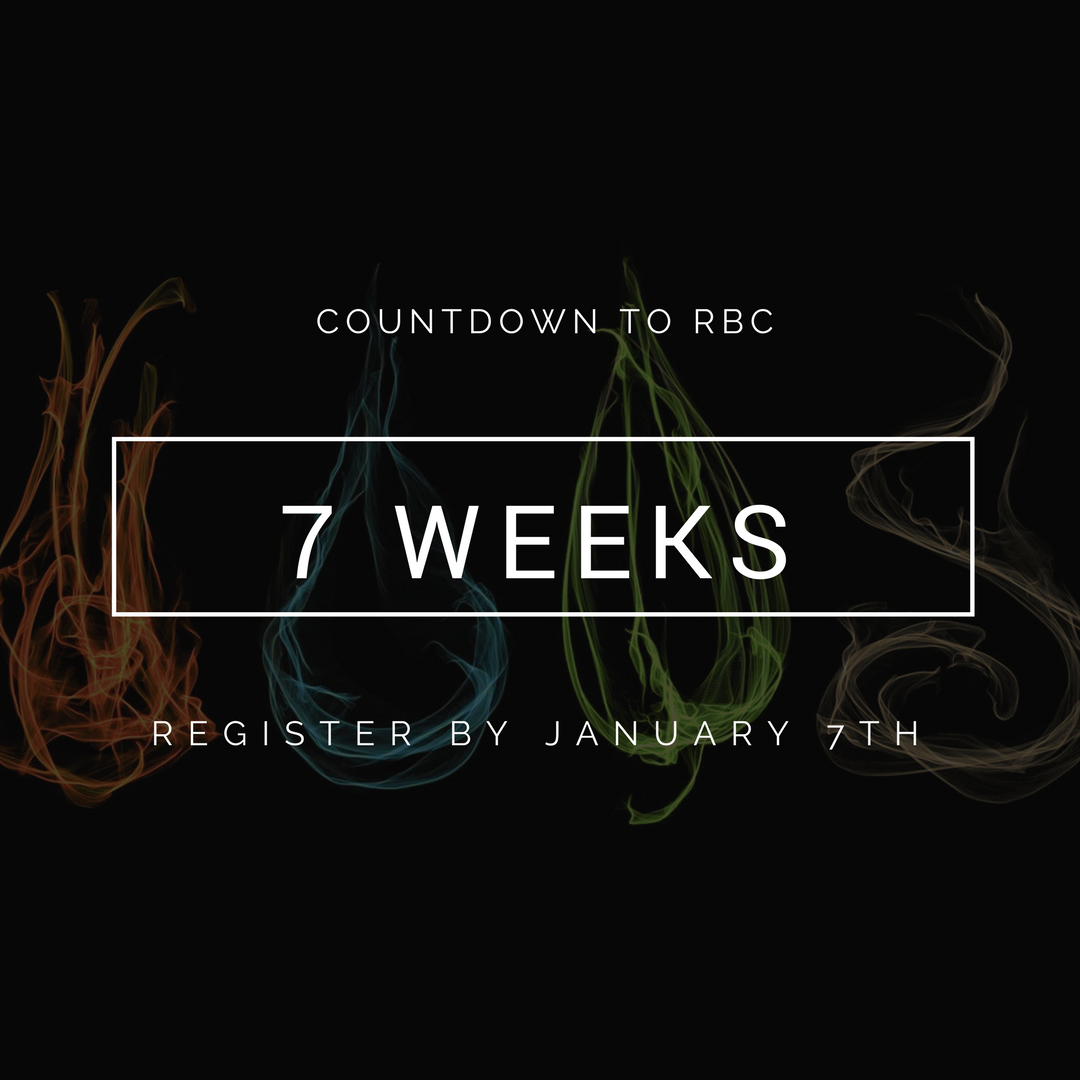
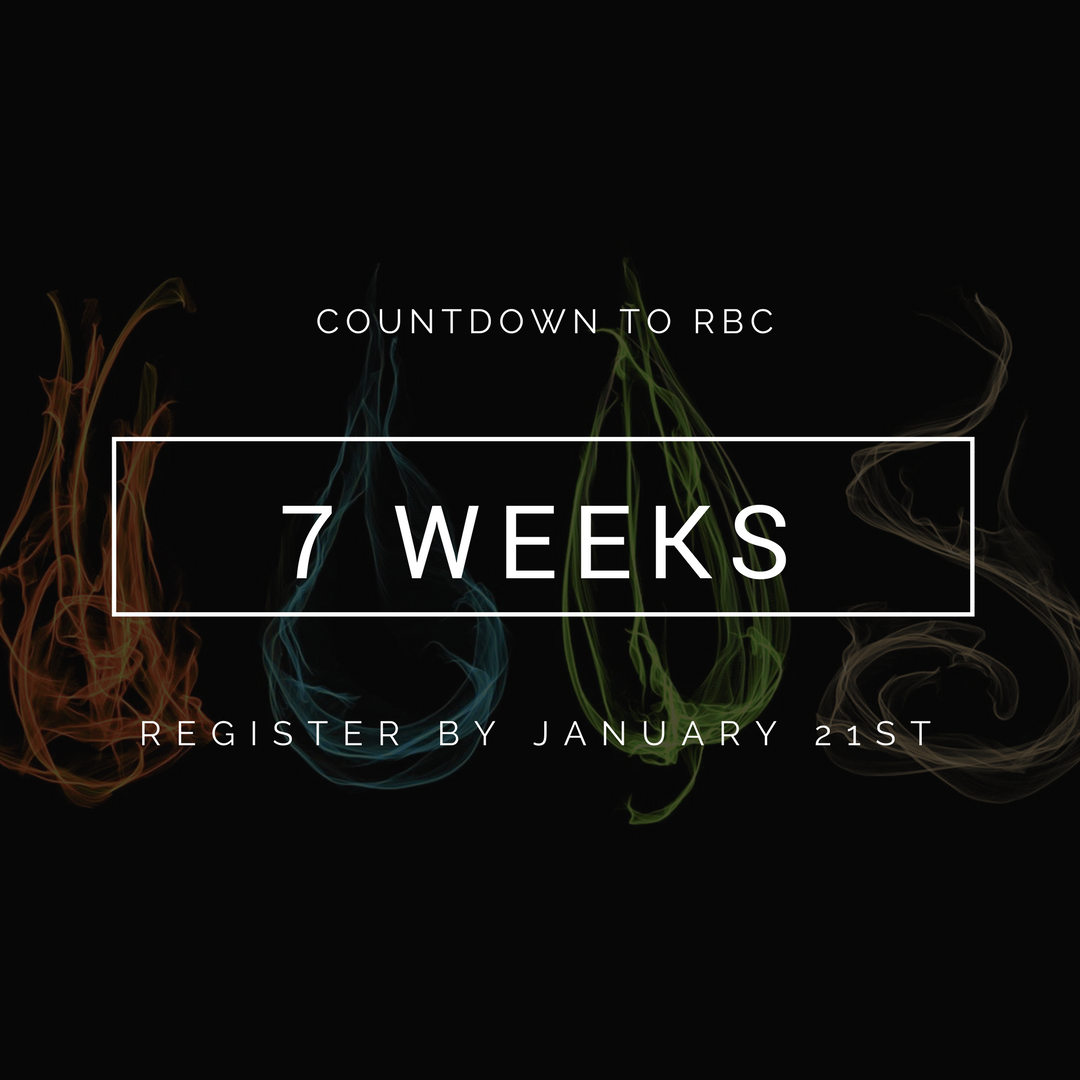
Time update plus IE

Changed region(s): [[0.1222, 0.6722, 0.4583, 0.7028], [0.4889, 0.6722, 0.7333, 0.7028], [0.7639, 0.6417, 0.8556, 0.7028]]

diff --git a/edge.html b/edge.html
@@ -1,0 +1,204 @@
+<!DOCTYPE html>
+<html>
+<head>
+	<title>PACUHR Supplemental Information</title>
+    <meta name="viewport" content="width=device-width" />
+    <!-- <link rel="icon" href="assets/img/favicon.ico"> -->
+    <link rel="shortcut icon" href="assets/img/favicon.png">
+
+    <!-- Stylesheets -->
+    <link href="assets/css/edge.css" rel="stylesheet">
+
+    <!-- Javascript -->
+    <script src="assets/js/jquery.min.js"></script>
+    <script src="assets/js/home.js"></script>
+
+
+    <!-- Fonts -->
+    <link href="https://fonts.googleapis.com/css?family=Lato:100, 200, 900" rel="stylesheet">
+    <link href="https://fonts.googleapis.com/css?family=Raleway|Roboto" rel="stylesheet">
+
+</head>
+<body>
+    <ul class="bio">
+        <a href="https://docs.google.com/document/d/e/2PACX-1vSMacULzJYSLMDfahwREuNmeAaR0OvWdM_uRp3bm-0_JDOF8NCqISKkfhKWXQlqBfiX9eBxeXMNptDs/pub?embedded=true" target="_blank"><li>Schedule</li></a>
+        <a href="https://docs.google.com/document/d/e/2PACX-1vTTs-bgmTuRv4H5wRHMs9PwfrejdE5vWjIoze6khQS8_9LyklnoTBfvmQczuU2EGOpxbchSTqVartva/pub?embedded=true" target="_blank"><li>Facilities</li></a>
+        <a href="https://docs.google.com/document/d/e/2PACX-1vShWX57ZOexEgTiD9x5EBEfz-5UGHoRq4tjNPMN0aP-avwXyD8g-t5YUnow2QDuvvxntoDesjxnkl9y/pub?embedded=true" target="_blank"><li>Philanthropy</li></a>
+        <a href="https://docs.google.com/document/d/e/2PACX-1vRNpflVgT7hRisHWzy3xjH-_QPZfJxgWUvwJ2RPPj9xoupFU9eglI5AaSdOIAxvU71GHhQ2PwxQmbC9/pub?embedded=true" target="_blank"><li>Boardroom</li></a>
+        <a href="https://docs.google.com/document/d/e/2PACX-1vQ3wpvf5CA1RFcTwgLR6kV_dpAYIvOB7zcffBp_ZI3Jy1-7ESFKWVpiiyaVnPHqsasPYmVmmPzXEVNA/pub?embedded=true" target="_blank"><li>Dining</li></a>
+        <a href="https://docs.google.com/document/d/e/2PACX-1vSeQNxVIhKRXkkq_laERnknpzzYmWFVCHaItcblNq2FaRng0i58fsBnya3-ByDKwyPgcWvApYgQrJ1m/pub?embedded=true" target="_blank"><li>Safety</li></a>
+        <a href="https://docs.google.com/document/d/e/2PACX-1vSp5R_JrV3CO1bLzzhDuFOmWo39ZVJdqaNupRMb9wWT4-gn0tQQC5y33AJevqqwpUlkM_jPolHkQPNS/pub?embedded=true" target="_blank"><li>Transportation</li></a>
+        <a href="https://docs.google.com/document/d/e/2PACX-1vTNjokR3y8SRMnol2DCQ_gLLuodWRSM3hlm1BqhgLPfuWVRo0wqWo0C-dDAID_6RIWcDf4KZJtPt-pc/pub?embedded=true" target="_blank"><li>Housing</li></a>
+    </ul>
+    
+    
+
+    <div class="bio" id="Chelsea">
+        <img src="assets/img/team/Chelsea.jpg">
+        <div id="info">
+            <div id="name"><b>Name: </b> Chelsea Ji</div>
+            <br>
+            <div id="pronouns"><b>Pronouns: </b> She/Her</div>
+            <br>
+            <div id="position"><b>Position: </b> Conference Co-Chair</div>
+            <br>
+        </div>
+        <div id="bio">Hello! My name is Chelsea and I'm excited to serve as co-chair for the Regional Business Conference! I'm a third year studying Integrative Biology. I also serve as a Resident Assistant and Vice President of Recognitions for the Golden Bear Chapter of NRHH. My passion and involvement with PACURH began when I attended conferences as a NCC. I’ve always loved representing my school in boardroom and hearing about all the great things happening in residential communities across PACURH. Now I’m excited to bring the Regional Business Conference to Berkeley and show PACURH what Cal is all about. Our conference team has worked tirelessly to deliver a truly unique experience for you and I’m sure that it won’t disappoint! As always, go bears!</div>
+    </div>
+    <div class="bio" id="CJ">
+        <img src="assets/img/team/CJ.jpg">
+        <div id="info">
+            <div id="name"><b>Name: </b> CJ Connolly</div>
+            <br>
+            <div id="pronouns"><b>Pronouns: </b> She/Her</div>
+            <br>
+            <div id="position"><b>Position: </b> Conference Co-Chair</div>
+            <br>
+        </div>
+        <div id="bio">Hey PACURH! I’m CJ and I am one of the Co-Conference Chairs for RBC 2018! I am a fourth year studying Psychology with plans of pursuing law school next fall. I also serve as the President of the Golden Bear Chapter for NRHH and as a Community and Leadership Assistant overseeing the Unit 3 Hall Association. I am extremely passionate about children and someday hope to make education more accessible and of higher quality around the world. Some of my other favorite things include boba, butterflies, playing Catan, watching Netflix and baking yummy desserts with my Co-Conference Chair Chelsea! We are all so excited for you all to spend some time with us in Berkeley this February. Please do not hesitate to reach out to us with any questions! Froggie Love!</div>
+    </div>
+    <div class="bio" id="Desirée">
+        <img src="assets/img/team/Desiree.jpg">
+        <div id="info">
+            <div id="name"><b>Name: </b> Desirée Nayak</div>
+            <br>
+            <div id="pronouns"><b>Pronouns: </b> She/Her</div>
+            <br>
+            <div id="position"><b>Position: </b> Registration Chair</div>
+            <br>
+        </div>
+        <div id="bio">Hey everyone, my name is Desirée Nayak and I am the Registration Chair for the PACURH Regional Business Conference, 2018. I am a sophomore at UC Berkeley, intending to pursue a degree in Cognitive Science. I am from Mumbai, India and lived there pretty much all my life, till I moved here for college. I love to travel and am also a certified scuba diver. When I am not overthinking everything and/ or contemplating life, you will usually find me watching law dramas or psychological thrillers. I am part of the Peer Review Board which is an organisation that deals with policy violations in the residence halls. I am also doing some interesting psychological research at our law school. I look forward to seeing and interacting with all of you (both virtually, through the (rather lengthy) registration form, and also in person, of course). I am very excited for the conference and really looking forward to February! </div>
+    </div>
+    <div class="bio" id="Danny">
+        <img src="assets/img/team/Danny.jpg">
+        <div id="info">
+            <div id="name"><b>Name: </b> Danny Chu</div>
+            <br>
+            <div id="pronouns"><b>Pronouns: </b> He/Him</div>
+            <br>
+            <div id="position"><b>Position: </b> Technology & Media Chair</div>
+            <br>
+        </div>
+        <div id="bio">Hi y'all! You can call me Danny Or "you there" or "heyya handsome!" what every bloats your boat. I am an Electrical Engineering and Computer Science Major, with an intended double in Cognitive Sciences and minoring in Data Science. If you like data structures, come enroll in Berkeley and take the class with me! I love a good meme or pun, so hit me up! We'll see where our adventure takes us, and look back on all the great meme-ories! </div>
+    </div>
+    <div class="bio" id="Rachel">
+        <img src="assets/img/team/Rachel.jpg">
+        <div id="info">
+            <div id="name"><b>Name: </b> Rachel Lin</div>
+            <br>
+            <div id="pronouns"><b>Pronouns: </b> She/Her</div>
+            <br>
+            <div id="position"><b>Position: </b> Housing Chair</div>
+            <br>
+        </div>
+        <div id="bio">Hey y’all! My name is Rachel Lin and I am the Housing Chair for RBC! I am a second-year student intending to double major in Business Administration and Cognitive Science. I’m an out of state student from the great state of Maryland, like twenty minutes outside Baltimore and an hour from Washington D.C. On campus, I’m involved in the student government, National Residence Hall Honorary, and Space Enterprise! In my free time, I love watching the TV show Survivor, petting cats, and drinking boba. Last year, I was RHA Rep for my residence hall, where I had the opportunity to attend RLC at USC, RBC at UoP, and NACURH at Purdue University. Can’t wait to see you all in February!!</div>
+    </div>
+    <div class="bio" id="Billy">
+        <img src="assets/img/team/Billy.jpg">
+        <div id="info">
+            <div id="name"><b>Name: </b> Billy Allocca</div>
+            <br>
+            <div id="pronouns"><b>Pronouns: </b> He/Him</div>
+            <br>
+            <div id="position"><b>Position: </b> Facilities & Logistics Chair</div>
+            <br>
+        </div>
+        <div id="bio">Hey there!! I’m Billy Allocca, a sophomore at Cal, a Resident Assistant, avid dog lover, and Facilities and Logistics chair. I’m planning on majoring in Business Administration. My hometown is Seattle, Washington and some of my hobbies include hiking, exploring, adventures, binge-watching Parks and Recreation, and running. I’ve been involved with Residential Life ever since Hall Association as a freshman, through PACURH 2016, and now as an RA and chair for RBC! I’m so excited to share this amazing school with all of you at this conference - see you in February!</div>
+    </div>
+    <div class="bio" id="Jeet">
+        <img src="assets/img/team/Jeet.jpg">
+        <div id="info">
+            <div id="name"><b>Name: </b> Jeet Rai</div>
+            <br>
+            <div id="pronouns"><b>Pronouns: </b> She/Her</div>
+            <br>
+            <div id="position"><b>Position: </b> Transportation & Safety Chair</div>
+            <br>
+        </div>
+        <div id="bio">Hi! My name is Jeet Rai and I am the Transportation and Safety Chair for the Regional Business Conference. I am a second year at Cal and have declared a Political Science major with an intended Journalism minor. When I am not writing emails and attending meetings, I enjoy spontaneous adventures to Oregon, Nevada, the Berkeley Hills and San Francisco to stargaze and hike. I love learning new languages, pouring over different publications and jamming to music in my free time. On campus, I am the Director of Advocacy for the United Nations Association of Berkeley, a Distribution Analyst at The Daily Californian and the Student Supervisor at Unit 3 Residence Halls. As a freshman, I had the honor of serving as president of Hall Association. I love meeting new people and look forward to seeing you soon! </div>
+    </div>
+    <div class="bio" id="Elyse">
+        <img src="assets/img/team/Elyse.jpg">
+        <div id="info">
+            <div id="name"><b>Name: </b> Elyse O'Neill</div>
+            <br>
+            <div id="pronouns"><b>Pronouns: </b> She/Her</div>
+            <br>
+            <div id="position"><b>Position: </b> Volunteer Chair</div>
+            <br>
+        </div>
+        <div id="bio">Hello! My name is Elyse O’Neil and I am the Volunteer Chair for RBC. I am a senior at Cal majoring in Peace and Conflict Studies and minoring in Public Policy. When I’m not stressing out about classes, I enjoy being an active member of res life. I have served as an executive in the Residence Hall Assembly, and am currently a Community and Leadership Advisor and an active member of NRHH. I also enjoy reading, listening to podcasts, binging shows on Netflix, and spending time with friends. I am very excited for everyone to come to Berkeley for RBC. I know that you will all have an awesome time. Remember to be nice to the volunteers, and do not be afraid to ask them for help or food recommendations (there are so many awesome places to explore in this city!) </div>
+    </div>
+    <div class="bio" id="Alma">
+        <img src="assets/img/team/Alma.jpg">
+        <div id="info">
+            <div id="name"><b>Name: </b> Alma Avila</div>
+            <br>
+            <div id="pronouns"><b>Pronouns: </b> She/Her</div>
+            <br>
+            <div id="position"><b>Position: </b> Hospitality & Sustainability Chair</div>
+            <br>
+        </div>
+        <div id="bio">Hiiiii! My name is Alma Avila, I am the Hospitality and Sustainability Chair for the Regional Business Conference. I am a proud Latina from Southern California, and enjoy playing soccer. I am a sophomore, intended Business Administration and Media Studies. I think Res life is the Best life! As a freshman, I was a representative at Residence Hall Assembly which encouraged me to become part of NRHH. I am glad to be helping organize this conference for you all, and am excited that y’all be coming to UC Berkeley. Outside of academics I am involved in Greek life, Latino Business Student Association, Hermanas Unidas, and the Event Planning Association. Don’t hesitate to reach out! SC: @almaa120612</div>
+    </div>
+    <div class="bio" id="Sandra">
+        <img src="assets/img/team/Sandra.jpg">
+        <div id="info">
+            <div id="name"><b>Name: </b> Sandra Walle</div>
+            <br>
+            <div id="pronouns"><b>Pronouns: </b> She/Her</div>
+            <br>
+            <div id="position"><b>Position: </b> Finance Chair</div>
+            <br>
+        </div>
+        <div id="bio">Hi everyone! My name is Sandra Walle and I am the Finance Chair for the Regional Business Conference. I am very passionate about Res Life and grateful that I have the opportunity to work with so many amazing peers to help make Cal a place students can call home. In the Res Halls I work as a Resident Assistant and also serve as the VP of Finance and Communications for the National Residence Hall Honorary (NRHH) Golden Bear Chapter. I am a third year student majoring in Public Health with a double minor in Spanish Literature and Public Policy. On campus I am involved with the Undergraduate Public Health Coalition, work as a Research Assistant in a Psychology lab and volunteer as a  Health Advocate through the Alameda Health System. In my free time I enjoy playing board games, tennis, grabbing coffee with friends, and exploring the bay area in search of cute and tasty brunch spots.  I am so excited to be a part of the conference planning team and can't wait to see you all in February! </div>
+    </div>
+    <div class="bio" id="Amberlyn">
+        <img src="assets/img/team/Amberlyn.jpg">
+        <div id="info">
+            <div id="name"><b>Name: </b> Amberlyn Saw</div>
+            <br>
+            <div id="pronouns"><b>Pronouns: </b> She/Her</div>
+            <br>
+            <div id="position"><b>Position: </b> Philanthropy & Sponsorship Chair</div>
+            <br>
+        </div>
+        <div id="bio">Hi everyone! My name is Amberlyn Saw and I am the Philanthropy and Sponsorships Chair. I’m a 3rd year double majoring in Business Administration and Molecular Environmental Biology with a concentration in Environment and Human Health. I’m a second-year RA in Unit 3, the place to be! In my free time, I love road tripping to national parks and spending time outdoors camping, backpacking, and running. If I’m not in my room napping, there’s a good chance I’m searching for the best chai latte in Berkeley, baking brownies in the kitchen, or procrastinating on homework by hiking in the Bay Area. On campus, I’m a mentor for Boost @Haas, a director for the ASUC Office of the CTO, and a member of National Residence Hall Honorary. I am beyond thrilled to be a part of this conference and I can’t wait to meet all of you in February!</div>
+    </div>
+    <div class="bio" id="Jeah">
+        <img src="assets/img/team/Jeah.jpg">
+        <div id="info">
+            <div id="name"><b>Name: </b> Jeah Clemente</div>
+            <br>
+            <div id="pronouns"><b>Pronouns: </b> She/Her</div>
+            <br>
+            <div id="position"><b>Position: </b> Dining & Banquet Chair</div>
+            <br>
+        </div>
+        <div id="bio">Hi! My name is Jeah Clemente and I am the Dining and Banquet Chair for this year’s RBC conference. I am a senior studying Integrative Biology and Global Public Health, and I intend to pursue medical school or a career in the health field in the near future. Throughout my time at Berkeley, I have been involved with Bears that Care, a peer education program promoting violence prevention and bystander intervention, the residence halls as an RA, and have done bio-physics and cognitive psychology research with a few professors. When I’m not busy with school and my extracurricular activities, I like to spend time with friends, explore the Bay Area, and try out yummy restaurants all around Berkeley. I’ve had a really great time working with everyone to plan this conference, and I look forward to meeting all of you!</div>
+    </div>
+    <div class="bio" id="Alex">
+        <img src="assets/img/team/Alex.jpg">
+        <div id="info">
+            <div id="name"><b>Name: </b> Alex Brown</div>
+            <br>
+            <div id="pronouns"><b>Pronouns: </b> She/Her</div>
+            <br>
+            <div id="position"><b>Position: </b> Advisor</div>
+            <br>
+        </div>
+        <div id="bio">Hey PACURH! My name is Alex Brown, and I’m one of the Co-Advisors for RBC 2018! I’m originally from Virginia, where I spent many childhood field trips learning how to make candles in Colonial Williamsburg. I received my BS in Psychology from Virginia Tech (GO HOKIES!), and also hold a MS in College Student Personnel. In my spare time, I put that psychology degree to use and taught my cat how to play fetch. I also create an audio-drama podcast about a group of people living in the middle of the Atlantic Ocean, and the spooky happenings they encounter! If you want to know more about that, just ask! Oh, and if you need anything during the conference, I’ll be there!</div>
+    </div>
+    <div class="bio" id="Tanya">
+        <img src="assets/img/team/Tanya.jpg">
+        <div id="info">
+            <div id="name"><b>Name: </b> Tanya Koroyan</div>
+            <br>
+            <div id="pronouns"><b>Pronouns: </b> She/Her</div>
+            <br>
+            <div id="position"><b>Position: </b> Advisor</div>
+            <br>
+        </div>
+        <div id="bio">Hi PACURH! My name is Tanya Koroyan and I’m one of the Co-Advisors for RBC 2018! I’m from the city of Newark, California, located in the beautiful Bay Area. I received my Bachelors in Sociology from San Jose State University (Spartan Up!), where I got my start in student leadership and PACURH. I continued my education at the University of San Francisco where I earned my Masters of Arts in Higher Education and Student Affairs. In my free time I like to draw, dance, drink chai lattes, and spend quality time with family and friends. Looking forward to seeing everyone in Berkeley for RBC 2018! Go Bears!</div>
+    </div>
+</body>

diff --git a/index.html b/index.html
@@ -17,7 +17,6 @@
 
     <!-- Countdown -->
     <link rel="stylesheet" type="text/css" href="assets/css/countdown.css" />
-    <script src="https://ajax.googleapis.com/ajax/libs/jquery/1.10.2/jquery.min.js"></script>
     <script type="text/javascript" src="assets/js/countdown.js"></script>
 
     <!-- Fonts -->
@@ -390,7 +389,9 @@
         </div>
     </div>
 
-    <div id="cover" onclick="fileOut();" >
+    <div id="cover" onclick="fileOut();">
+        <![if IE]> <a href="edge.html" target="_blank">Hi! Unfortunately, some browsers are not compatible with our code, This means that our Conference Tab and About tab will not work. Here is a link to another page with the information that is missing!</a> <![endif]>
+        
         <div id="cover-container">
             <div id="exit" style="color: white; position: absolute; top: -25px; left: 0px;" onclick="fileOut();" >X</div>
             <iframe id="cover-Schedule" src="https://docs.google.com/document/d/e/2PACX-1vSMacULzJYSLMDfahwREuNmeAaR0OvWdM_uRp3bm-0_JDOF8NCqISKkfhKWXQlqBfiX9eBxeXMNptDs/pub?embedded=true"></iframe>

diff --git a/assets/css/edge.css b/assets/css/edge.css
@@ -1,0 +1,43 @@
+img {
+	height: 120px;
+	width: 120px;
+	border-radius: 60px;
+}
+
+img, #info {
+	display: inline-block;
+}
+
+iframe {
+	height: 500px;
+	width: 850px;
+}
+
+a {
+	text-decoration: none;
+	color: black;
+}
+
+ul {
+	list-style-type: none;
+}
+
+li {
+	padding: 2px 5px;
+	font-size: 1.5em;
+}
+
+li:hover {
+	background-color: gray;
+}
+
+.bio {
+	margin: 15px 5px;
+	padding: 10px;
+    border: black;
+	border-radius: 1em;
+	border-style: solid;
+    border-width: .15em;	
+    border-color: black;
+    background-color: lightgray;
+}
